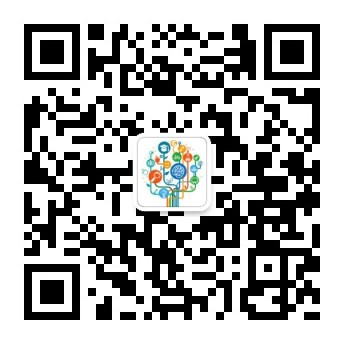
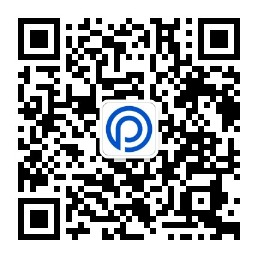
替换QR

diff --git a/content/about.md b/content/about.md
@@ -1,7 +1,7 @@
 ---
 title: "About"
 date: 2015-05-09T21:08:12+08:00
-lastmod: 2025-05-14T21:09:48+08:00
+lastmod: 2026-11-19T21:09:48+08:00
 author: ["Bobby"]
 
 tags:
@@ -42,8 +42,9 @@ cover:
 
 这里是我记录专业感悟与学习旅程的数字家园，分享从临床经验到技术探索的心得。无论是药学前沿还是数据洞见，期待与你交流，共同探寻知识的乐趣！
 
-## 小作品
+## 作品
 
+- <a href="https://www.precidose.ai/" target="_blank" rel="noopener noreferrer">[个体化精准剂量决策平台（Precidose）]</a>
 - <a href="https://30plans.shinyapps.io/apps/" target="_blank" rel="noopener noreferrer">[万古霉素AUC计算器]</a>
 - <a href="https://30plans.shinyapps.io/apps/_w_8088acbb2dcc406da43479727ea2a3cd/#tab-4554-2" target="_blank" rel="noopener noreferrer">[新生儿早发败血症风险评估工具]</a>
 - 药学BI平台 [基于R语言shiny包开发]
